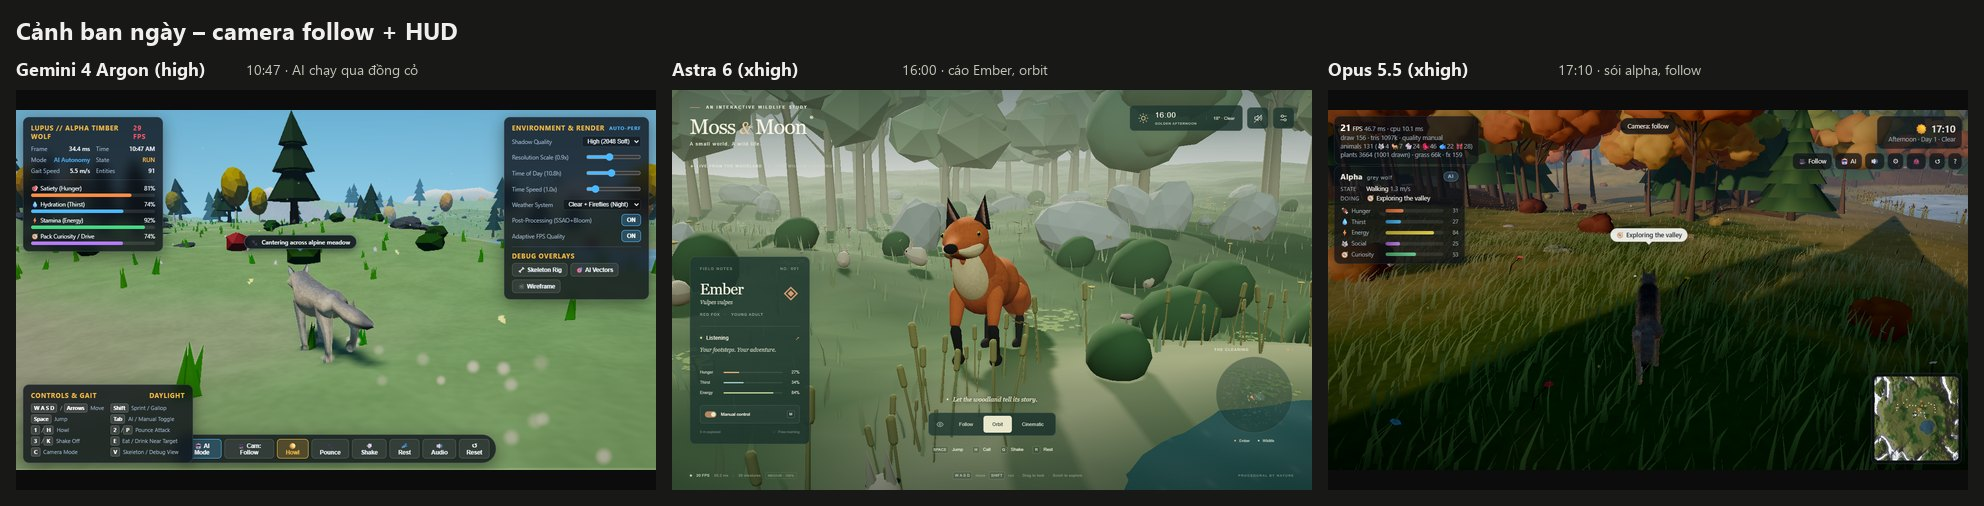
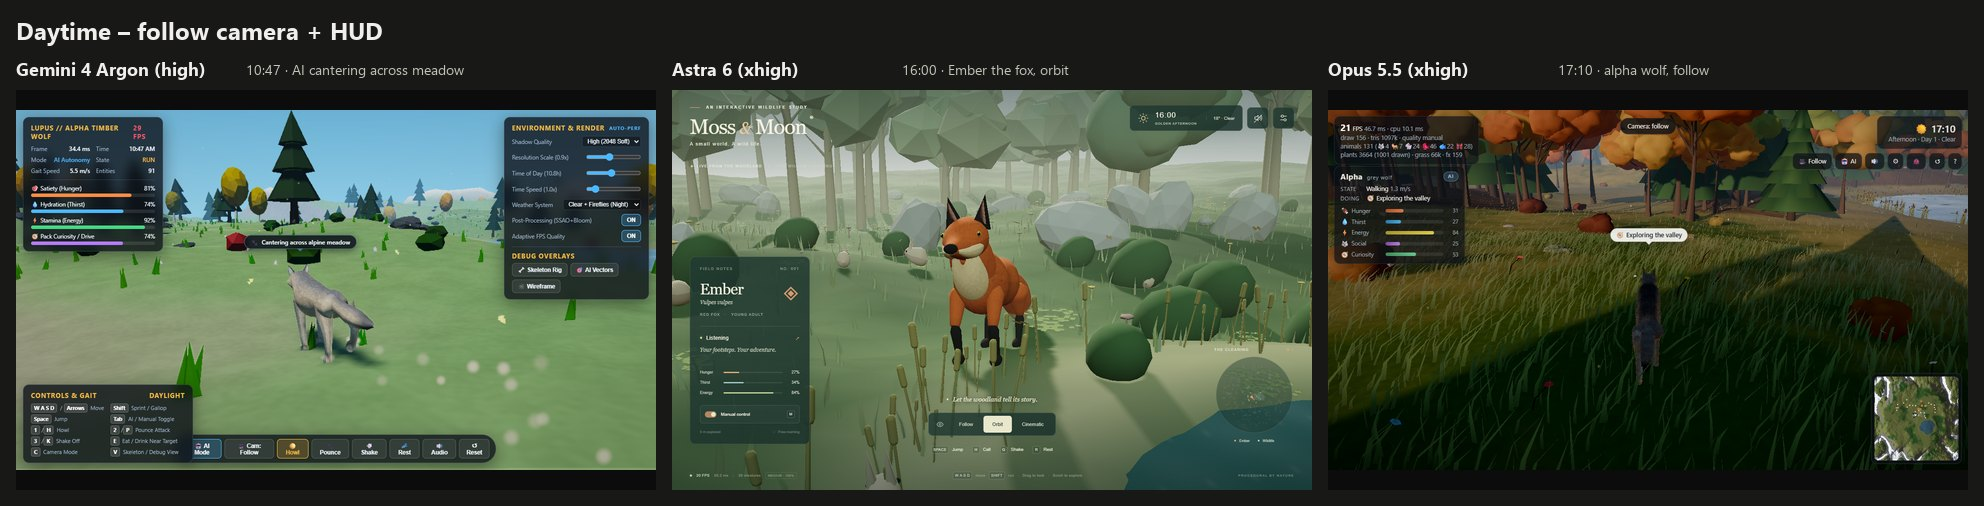
docs(report): translate chart and comparison-grid labels to English
Legend, axis note, target label, grid titles and captions in build_assets.py are now in English; FPS chart and the three composites regenerated. Data unchanged.

diff --git a/report/scripts/build_assets.py b/report/scripts/build_assets.py
@@ -130,9 +130,9 @@ def fps_chart(rows):
         f'<rect class="bg" width="{w}" height="{h}" rx="8"/>',
         # legend
         f'<rect class="s1" x="{left}" y="18" width="12" height="12" rx="3"/>',
-        f'<text class="t" x="{left + 18}" y="29">FPS tự báo cáo (README / JSON)</text>',
+        f'<text class="t" x="{left + 18}" y="29">Self-reported FPS (README / JSON)</text>',
         f'<rect class="s2" x="{left + 250}" y="18" width="12" height="12" rx="3"/>',
-        f'<text class="t" x="{left + 268}" y="29">FPS thực theo đồng hồ (số frame ÷ 30 s)</text>',
+        f'<text class="t" x="{left + 268}" y="29">Wall-clock FPS (frames ÷ 30 s)</text>',
     ]
     for v in range(0, 71, 10):
         out.append(f'<line class="g" x1="{x(v):.1f}" x2="{x(v):.1f}" y1="{top - 8}" y2="{h - 46}" stroke-width="1"/>')
@@ -140,7 +140,7 @@ def fps_chart(rows):
     out.append(
         f'<line class="tgt" x1="{x(60):.1f}" x2="{x(60):.1f}" y1="{top - 8}" y2="{h - 46}" stroke-width="2" stroke-dasharray="5 4"/>'
     )
-    out.append(f'<text class="t2" x="{x(60) + 4:.1f}" y="{top - 12}">mục tiêu 60</text>')
+    out.append(f'<text class="t2" x="{x(60) + 4:.1f}" y="{top - 12}">60 FPS target</text>')
     for i, (row, label) in enumerate(zip(rows, labels)):
         y0 = top + i * group_h
         out.append(f'<text class="t" x="{left - 12}" y="{y0 + bar_h + 6}" text-anchor="end">{label}</text>')
@@ -154,7 +154,7 @@ def fps_chart(rows):
                 f'a4,4 0 0 1 -4,4 h{-(bw - 4):.1f} z"><title>{label}: {v} FPS</title></path>'
             )
             out.append(f'<text class="t" x="{x(v) + 6:.1f}" y="{y + bar_h - 4}">{v:g}</text>')
-    out.append(f'<text class="t2" x="{left + plot_w / 2:.1f}" y="{h - 8}" text-anchor="middle" font-size="11">FPS trung bình · benchmark 30 s · Intel UHD 620</text>')
+    out.append(f'<text class="t2" x="{left + plot_w / 2:.1f}" y="{h - 8}" text-anchor="middle" font-size="11">Average FPS · 30 s benchmark · Intel UHD 620</text>')
     out.append("</svg>")
     with open(os.path.join(OUT_ASSETS, "fps-comparison.svg"), "w", encoding="utf8") as f:
         f.write("\n".join(out))
@@ -215,20 +215,20 @@ def main():
         json.dump(summary, f, indent=2, ensure_ascii=False)
 
     fps_chart(rows)
-    grid("compare-daylight.jpg", "Cảnh ban ngày – camera follow + HUD", [
-        ("01-daylight-follow.png", "10:47 · AI chạy qua đồng cỏ"),
-        ("01-afternoon.png", "16:00 · cáo Ember, orbit"),
-        ("01_golden_hour_follow_hud.png", "17:10 · sói alpha, follow"),
+    grid("compare-daylight.jpg", "Daytime – follow camera + HUD", [
+        ("01-daylight-follow.png", "10:47 · AI cantering across meadow"),
+        ("01-afternoon.png", "16:00 · Ember the fox, orbit"),
+        ("01_golden_hour_follow_hud.png", "17:10 · alpha wolf, follow"),
     ])
-    grid("compare-night.jpg", "Cảnh đêm", [
-        ("03-starlight-night-pack.png", "23:32 · tuần tra lãnh thổ"),
-        ("03-moonlight.png", "22:00 · ánh trăng"),
-        ("07_pack_howl_dusk.png", "đêm · cả bầy hú, eyeshine"),
+    grid("compare-night.jpg", "Night", [
+        ("03-starlight-night-pack.png", "23:32 · patrolling territory"),
+        ("03-moonlight.png", "22:00 · moonlight"),
+        ("07_pack_howl_dusk.png", "night · pack howl, eyeshine"),
     ])
-    grid("compare-showcase.jpg", "Debug rig / hành vi đặc trưng", [
+    grid("compare-showcase.jpg", "Debug rig / signature behaviour", [
         ("05-skeleton-debug-ik.png", "skeleton + AI vectors, POUNCE"),
-        ("05-rest.png", "trạng thái nghỉ (rest)"),
-        ("08_debug_skeleton_ai.png", "skeleton + đường mục tiêu AI"),
+        ("05-rest.png", "rest state"),
+        ("08_debug_skeleton_ai.png", "skeleton + AI target lines"),
     ])
     print(json.dumps(summary, indent=2, ensure_ascii=False))
 
